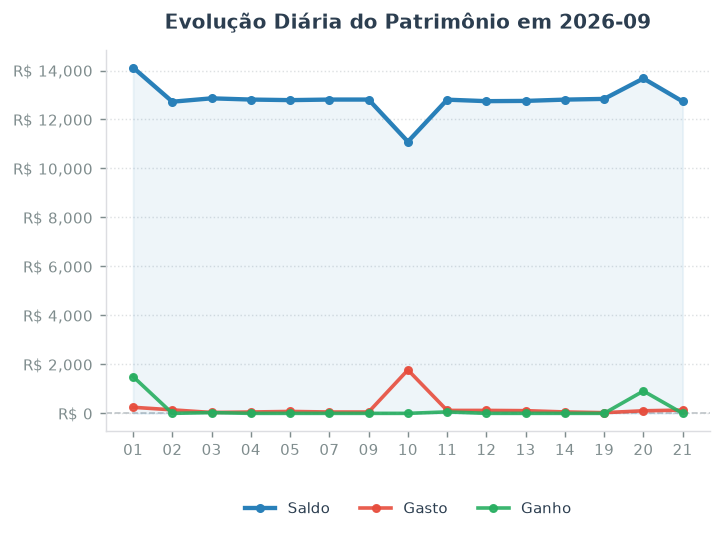
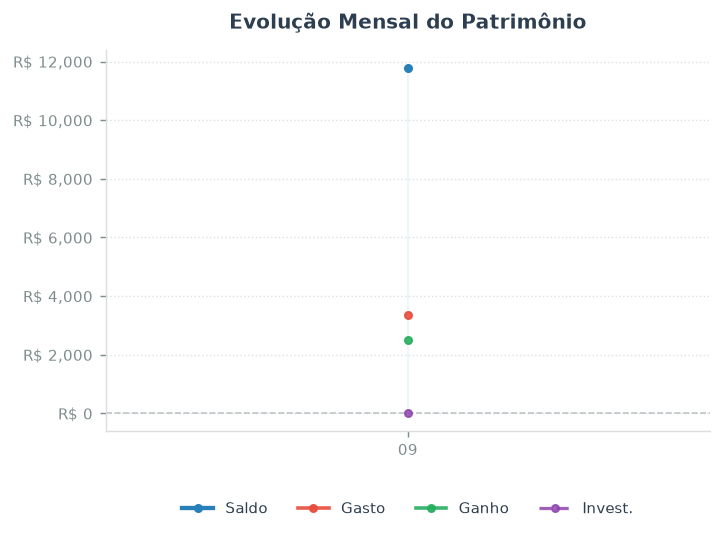
Add method for expense analysis by payment method and update charts

diff --git a/Analytics.py b/Analytics.py
@@ -177,6 +177,7 @@ class Analytics:
 
         else:
             mensal = 1
+            curMes = datetime.datetime.today().strftime('%Y-%m')
             query = f"""
                 SELECT 
                     strftime('%Y-%m', dia) as mes,
@@ -194,6 +195,7 @@ class Analytics:
                     -- Total Investido
                     COALESCE(SUM(CASE WHEN tipo_gasto = 'Investimento' THEN valor ELSE 0 END), 0) AS investimento
                 FROM gastos
+                where mes <= '{curMes}' 
                 group by mes
                 order by mes;                
                 """
@@ -265,6 +267,52 @@ class Analytics:
             fig_path = None
 
         return fig_path
+
+    def gastoMetodos(self, curMes=None):
+        if curMes is None:
+            curMes = datetime.datetime.today().strftime('%Y-%m')
+    
+        query = "select g.metodo_pagamento, g.gasto_total from " \
+        "(select metodo_pagamento, strftime('%Y-%m', dia) AS mes, " \
+        "SUM(valor) as gasto_total "\
+        "FROM gastos "\
+        f"where mes = '{curMes}' AND tipo_gasto in ('Gasto Fixo', 'Gasto Não Fixo')"\
+        "GROUP BY metodo_pagamento, mes) as g; "
+
+        result, colunas = self.db.consultaManual(query)
+        result = np.array(result)
+        if np.ndim(result) == 1:
+            result = result.reshape(1, -1)
+
+        categorias = result[:, 0]
+        valores = [float(val) for val in result[:, 1]]
+        fig_path = os.path.join(self.dir, "metodo.png")
+
+        fig, ax = plt.subplots()
+
+        fig.set_size_inches((5, 3.5))
+        ax.set_title("Gastos por Método", fontsize=11, fontweight="bold")
+        plt.tight_layout()
+
+        barras = ax.barh(categorias, valores)
+        max_valor = max(valores) if valores else 100
+        ax.set_xlim(0, max_valor * 1.25)  # 20% de margem no topo da barra
+
+        ax.bar_label(
+            barras, 
+            fmt="R$ %.2f",           # Formata como valor monetário (ex: R$ 254.00)
+            label_type="edge",       # "center" coloca no meio da barra; "edge" coloca na ponta
+            color="black",            
+            fontsize=9, 
+            fontweight="bold"
+        )
+
+        fig.savefig(fig_path, bbox_inches='tight', dpi=100)
+
+        #plt.show()
+        plt.close()
+
+        return result, colunas, fig_path
 
     def gastoMedioMensal(self):
         meses, _ = [l[0] for l in self.db.consultaManual(

diff --git a/Application.py b/Application.py
@@ -682,7 +682,6 @@ class AnaliseView(Frame):
                 aviso_label.pack(fill="both", expand=True)
                 return aviso_label
             
-
     class SubVisaoEvolucao(SubVisaoBase):
         def __init__(self, parent, voltar_callback):
             super().__init__(parent, "📈 Evolução Temporal e Tendências", voltar_callback)
@@ -775,11 +774,34 @@ class AnaliseView(Frame):
         def __init__(self, parent, voltar_callback):
             super().__init__(parent, "💳 Métodos de Pagamento (PIX, Cartão, etc.)", voltar_callback)
 
-            App.create_label(self, text="Relatório: Métodos de Pagamento", font=("Helvetica", 14, "bold"), bg="white", pady=20)
+            #App.create_label(self, text="Relatório: Métodos de Pagamento", font=("Helvetica", 14, "bold"), bg="white", pady=20)
 
-        def carregar_dados(self):
-            print("Recarregando métodos de pagamento...")
+            # Frame de campos de inserção
+            form_frame = Frame(self)
+            form_frame.pack(pady=10, padx=10)
 
+            self.mes_text = StringVar()
+            box = App.create_option_field(form_frame, "Mês", self.mes_text, list(self.analisty.extractMonths()), pady=0, bg="white")
+            box.current(0)
+            self.mes_text.trace_add("write", self.update_dados)
+
+            self.conteudo = Frame(self, bg="#ffffff")
+            self.conteudo.pack(fill="both", expand=True, padx=20, pady=5)
+
+            self.update_dados()
+
+        def update_dados(self):
+            for widget in self.conteudo.winfo_children():
+                                widget.destroy()
+            
+            lbl = App.create_label(self.conteudo, text=f"Tabela / Gráfico de Categorias em {self.mes_text.get()}", bg="white", fg="#7f8c8d", pady=5)
+
+            valores, colunas, chart_path = self.analisty.gastoMetodos(curMes=self.mes_text.get())
+
+            self.chart = pilImg.open(chart_path).resize((320, 240), pilImg.Resampling.LANCZOS)
+            
+            self.carregar_dados(self.conteudo, valores, colunas, self.chart)
+                    
 class HistoricoView(Frame):
 
     def __init__(self, parent):
